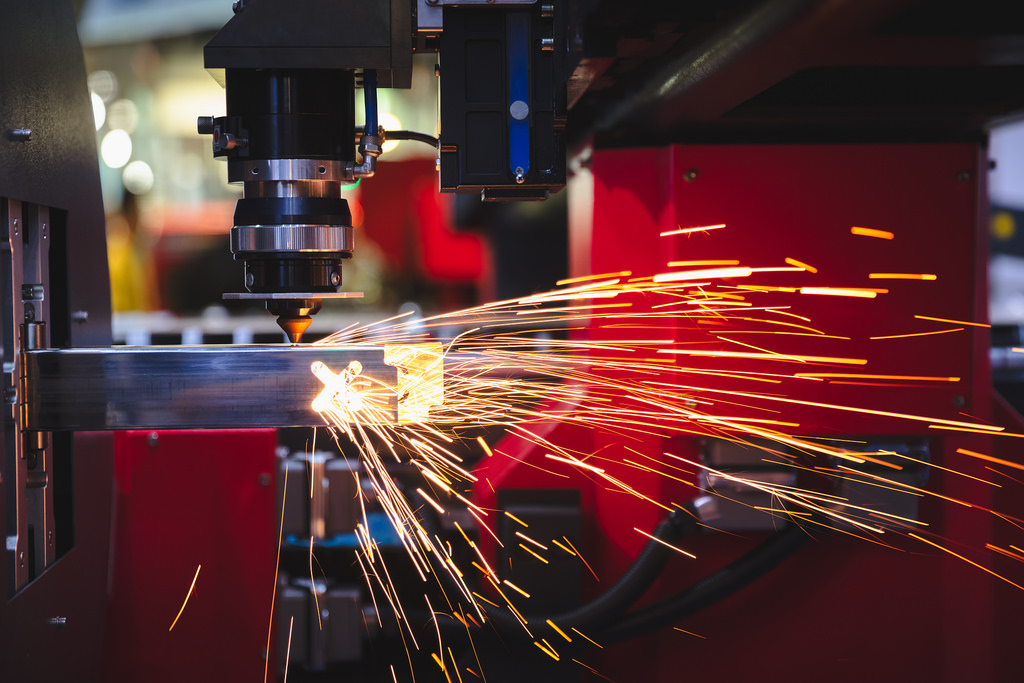
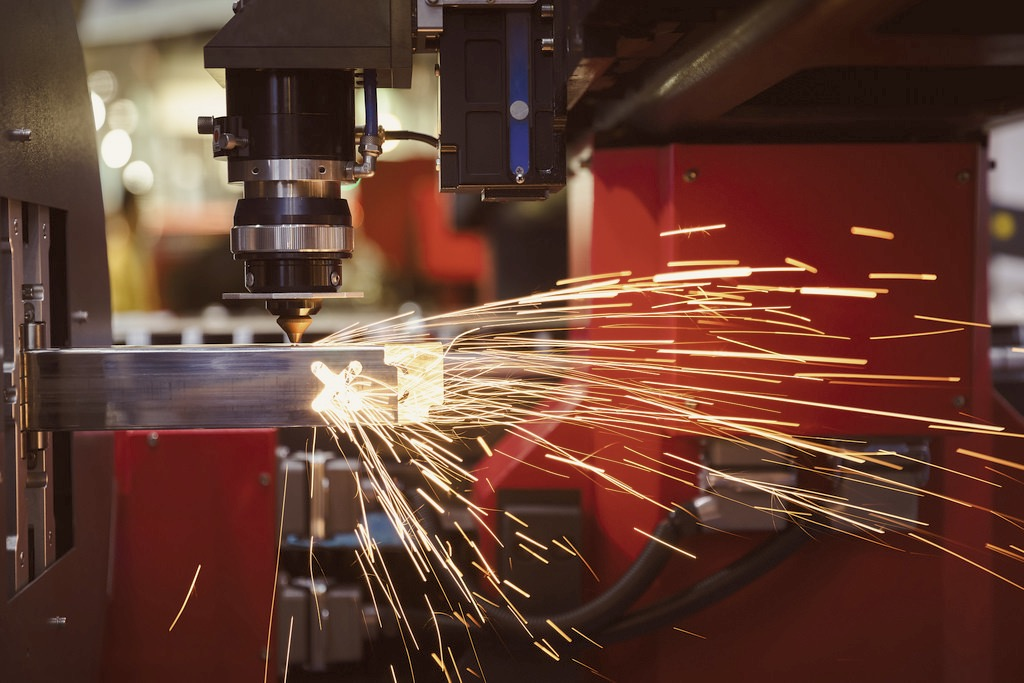
Updated style

diff --git a/css/creative.css b/css/creative.css
@@ -11,22 +11,22 @@ body {
 hr {
   max-width: 50px;
   border-width: 3px;
-  border-color: #F05F40;
+  border-color: #205AAF;
 }
 
 hr.light {
   border-color: #fff;
 }
-
+Ç
 a {
-  color: #F05F40;
+  color: #205AAF;
   -webkit-transition: all 0.2s;
   -moz-transition: all 0.2s;
   transition: all 0.2s;
 }
 
 a:hover {
-  color: #f05f40;
+  color: #205AAF;
 }
 
 h1,
@@ -39,7 +39,7 @@ h6 {
 }
 
 .bg-primary {
-  background-color: #F05F40 !important;
+  background-color: #205AAF !important;
 }
 
 .bg-dark {
@@ -47,7 +47,7 @@ h6 {
 }
 
 .text-faded {
-  color: rgba(255, 255, 255, 0.7);
+  color: rgba(255, 255, 255, 1);
 }
 
 section {
@@ -91,29 +91,30 @@ img::-moz-selection {
 
 #mainNav .navbar-brand {
   font-weight: 700;
-  color: #F05F40;
+  font-size: 2.0rem;
+  color: #205AAF;
   font-family: 'Nunito', 'Open Sans', 'Helvetica Neue', Arial, sans-serif;
 }
 
 #mainNav .navbar-brand:focus, #mainNav .navbar-brand:hover {
-  color: #f05f40;
+  color: #205AAF;
 }
 
 #mainNav .navbar-nav > li.nav-item > a.nav-link,
 #mainNav .navbar-nav > li.nav-item > a.nav-link:focus {
-  font-size: .9rem;
+  font-size: 1.10rem;
   font-weight: 700;
   color: #212529;
 }
 
 #mainNav .navbar-nav > li.nav-item > a.nav-link:hover,
 #mainNav .navbar-nav > li.nav-item > a.nav-link:focus:hover {
-  color: #F05F40;
+  color: #205AAF;
 }
 
 #mainNav .navbar-nav > li.nav-item > a.nav-link.active,
 #mainNav .navbar-nav > li.nav-item > a.nav-link:focus.active {
-  color: #F05F40 !important;
+  color: #205AAF !important;
   background-color: transparent;
 }
 
@@ -149,10 +150,10 @@ img::-moz-selection {
     background-color: #fff;
   }
   #mainNav.navbar-shrink .navbar-brand {
-    color: #F05F40;
+    color: #205AAF;
   }
   #mainNav.navbar-shrink .navbar-brand:focus, #mainNav.navbar-shrink .navbar-brand:hover {
-    color: #f05f40;
+    color: #205AAF;
   }
   #mainNav.navbar-shrink .navbar-nav > li.nav-item > a.nav-link,
   #mainNav.navbar-shrink .navbar-nav > li.nav-item > a.nav-link:focus {
@@ -160,13 +161,14 @@ img::-moz-selection {
   }
   #mainNav.navbar-shrink .navbar-nav > li.nav-item > a.nav-link:hover,
   #mainNav.navbar-shrink .navbar-nav > li.nav-item > a.nav-link:focus:hover {
-    color: #F05F40;
+    color: #205AAF;
   }
 }
 
 header.masthead {
+  padding-top: 10rem;
   padding-bottom: calc(10rem - 56px);
-  background-image: url("../img/header.jpg");
+  background-image: url("../img/sepia.jpg");
   background-position: center center;
   -webkit-background-size: cover;
   -moz-background-size: cover;
@@ -175,7 +177,7 @@ header.masthead {
 }
 
 header.masthead hr {
-  margin-top: 30px;
+  margin-top: 15px;
   margin-bottom: 30px;
 }
 
@@ -248,7 +250,7 @@ header.masthead p {
 .portfolio-box .portfolio-box-caption .portfolio-box-caption-content .project-category,
 .portfolio-box .portfolio-box-caption .portfolio-box-caption-content .project-name {
   padding: 0 15px;
-  font-family: 'Open Sans', 'Helvetica Neue', Arial, sans-serif;
+  font-family: 'Nunito', 'Open Sans', 'Helvetica Neue', Arial, sans-serif;
 }
 
 .portfolio-box .portfolio-box-caption .portfolio-box-caption-content .project-category {
@@ -279,7 +281,7 @@ header.masthead p {
 }
 
 .text-primary {
-  color: #F05F40 !important;
+  color: #205AAF !important;
 }
 
 .btn {
@@ -295,8 +297,8 @@ header.masthead p {
 }
 
 .btn-primary {
-  background-color: #F05F40;
-  border-color: #F05F40;
+  background-color: #205AAF;
+  border-color: #205AAF;
 }
 
 .btn-primary:hover, .btn-primary:focus, .btn-primary:active {

diff --git a/index.html b/index.html
@@ -61,7 +61,8 @@
             <hr>
           </div>
           <div class="col-lg-8 mx-auto">
-            <p class="text-faded mb-5">Start Bootstrap can help you build better websites using the Bootstrap CSS framework! Just download your template and start going, no strings attached!</p>
+            <br>
+            <p class="text-faded mb-5">Equip is the best place to buy and sell tools for your projects.</p>
             <a class="btn btn-primary btn-xl js-scroll-trigger" href="#about">Find Out More</a>
           </div>
         </div>
@@ -72,7 +73,7 @@
       <div class="container">
         <div class="row">
           <div class="col-lg-8 mx-auto text-center">
-            <h2 class="section-heading text-white">We've got what you need!</h2>
+            <h2 class="section-heading text-white">Coming to MakerFaire 2018!</h2>
             <hr class="light my-4">
             <p class="text-faded mb-4">Start Bootstrap has everything you need to get your new website up and running in no time! All of the templates and themes on Start Bootstrap are open source, free to download, and easy to use. No strings attached!</p>
             <a class="btn btn-light btn-xl js-scroll-trigger" href="#services">Get Started!</a>

diff --git a/gulpfile.js b/gulpfile.js
@@ -11,7 +11,6 @@ var browserSync = require('browser-sync').create();
 var banner = ['/*!\n',
   ' * Equip - <%= pkg.title %> v<%= pkg.version %> (<%= pkg.homepage %>)\n',
   ' * Copyright 2018-' + (new Date()).getFullYear(), ' <%= pkg.author %>\n',
-  ' * Licensed under <%= pkg.license %> (https://github.com/BlackrockDigital/<%= pkg.name %>/blob/master/LICENSE)\n',
   ' */\n',
   ''
 ].join('');

diff --git a/scss/_masthead.scss b/scss/_masthead.scss
@@ -6,7 +6,7 @@ header.masthead {
   background-position: center center;
   @include background-cover;
   hr {
-    margin-top: 30px;
+    margin-top: 20px;
     margin-bottom: 30px;
   }
   h1 {
